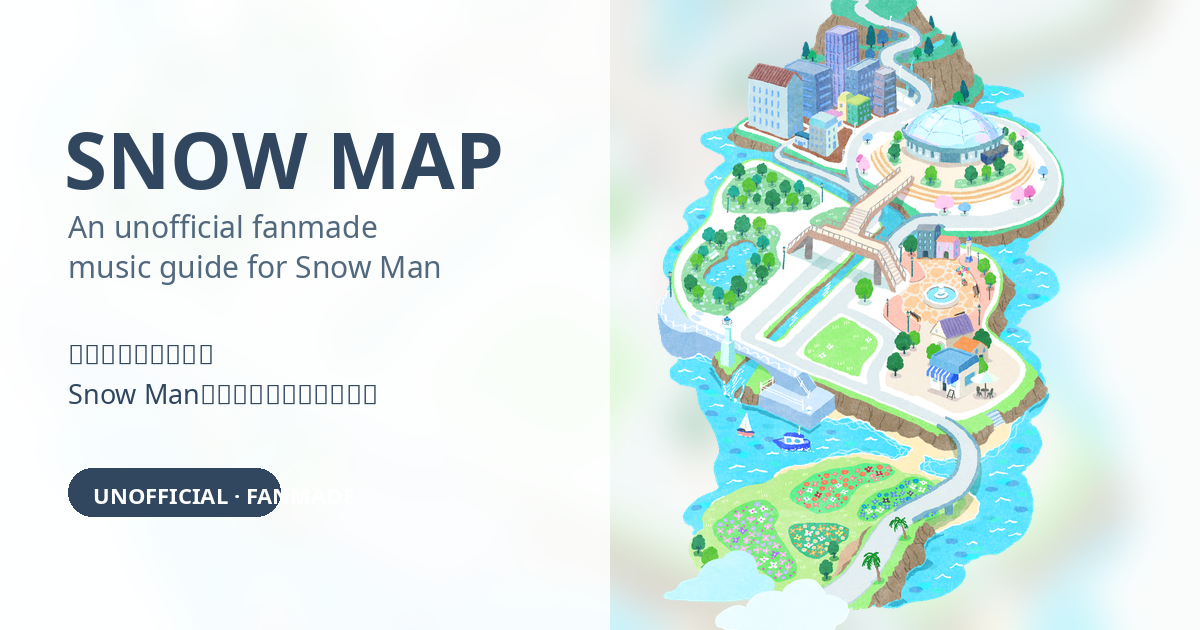
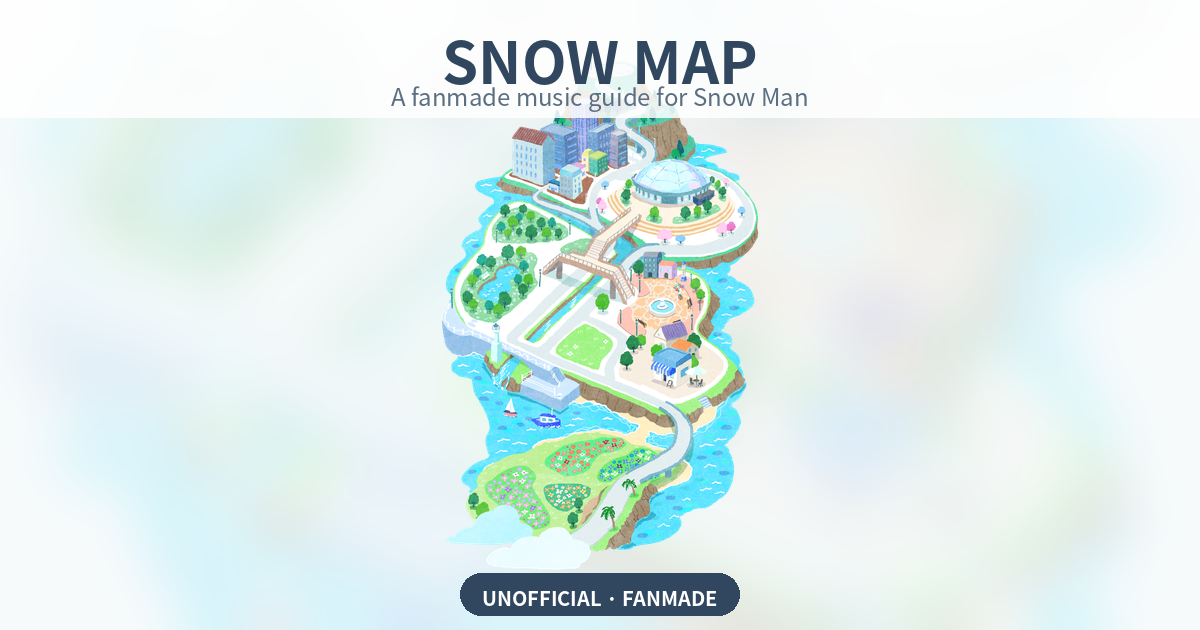
Add files via upload

diff --git a/index.html b/index.html
@@ -7,14 +7,14 @@
   <meta http-equiv="Pragma" content="no-cache" />
   <meta http-equiv="Expires" content="0" />
   <meta name="theme-color" id="themeColor" content="#f8fbfb" />
-  <title>SNOW MAP | Unofficial fanmade music guide for Snow Man</title>
+  <title>SNOW MAP | Unofficial music guide for Snow Man</title>
   <meta name="description" content="景色を歩くように、Snow Manの楽曲と出会う。個人制作による非公式ファンメイド・ミュージックガイドです。" />
   <link rel="canonical" href="https://mado0415.github.io/snow-map/" />
 
   <!-- Social sharing / OGP -->
   <meta property="og:type" content="website" />
   <meta property="og:site_name" content="SNOW MAP" />
-  <meta property="og:title" content="SNOW MAP | Snow Man fanmade music guide" />
+  <meta property="og:title" content="SNOW MAP | A fanmade music guide for Snow Man" />
   <meta property="og:description" content="景色を歩くように、Snow Manの楽曲と出会う。個人制作による非公式ファンメイド・ミュージックガイド。" />
   <meta property="og:url" content="https://mado0415.github.io/snow-map/" />
   <meta property="og:image" content="https://mado0415.github.io/snow-map/snow-map-share.png" />
@@ -23,7 +23,7 @@
   <meta property="og:image:alt" content="SNOW MAP — an unofficial fanmade music guide for Snow Man" />
 
   <meta name="twitter:card" content="summary_large_image" />
-  <meta name="twitter:title" content="SNOW MAP | Snow Man fanmade music guide" />
+  <meta name="twitter:title" content="SNOW MAP | A fanmade music guide for Snow Man" />
   <meta name="twitter:description" content="景色を歩くように、Snow Manの楽曲と出会う。個人制作による非公式ファンメイド・ミュージックガイド。" />
   <meta name="twitter:image" content="https://mado0415.github.io/snow-map/snow-map-share.png" />
   <meta name="twitter:image:alt" content="SNOW MAP — an unofficial fanmade music guide for Snow Man" />
